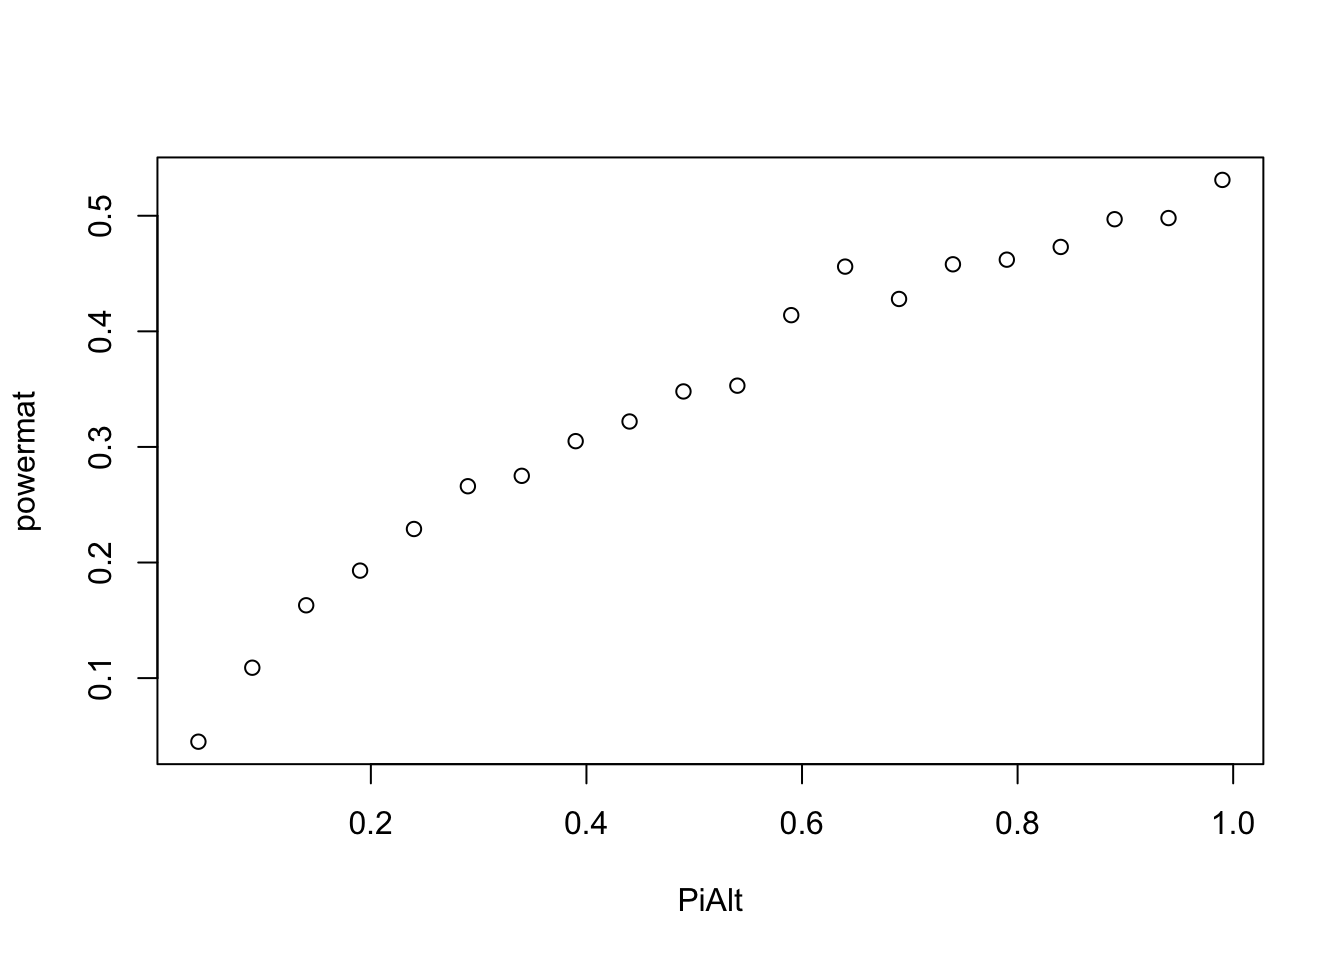
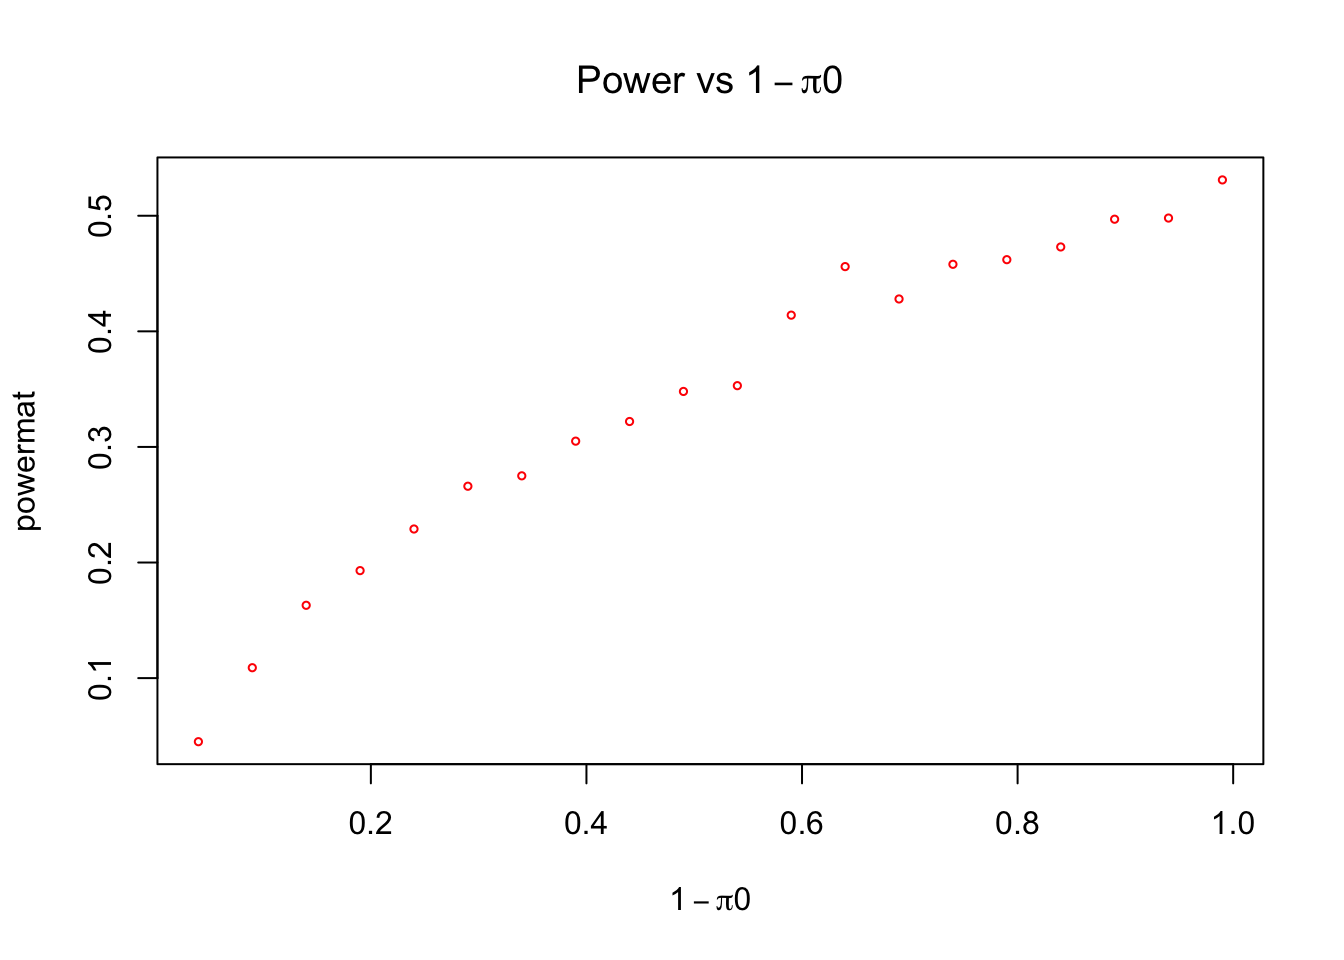
Build site.

diff --git a/docs/power.html b/docs/power.html
@@ -337,7 +337,7 @@ div.section {
 <div class="tab-content">
 <div id="summary" class="tab-pane fade in active">
 <p>
-<strong>Last updated:</strong> 2019-12-27
+<strong>Last updated:</strong> 2019-12-30
 </p>
 <p>
 <strong>Checks:</strong> <span class="glyphicon glyphicon-ok text-success" aria-hidden="true"></span> 6 <span class="glyphicon glyphicon-exclamation-sign text-danger" aria-hidden="true"></span> 1
@@ -438,14 +438,6 @@ relative
 <tbody>
 <tr>
 <td style="text-align:left;">
-~/nejm/analysis/
-</td>
-<td style="text-align:left;">
-analysis
-</td>
-</tr>
-<tr>
-<td style="text-align:left;">
 ~/nejm/code/scripts.R
 </td>
 <td style="text-align:left;">
@@ -460,10 +452,10 @@ code/scripts.R
 <div class="panel panel-default">
 <div class="panel-heading">
 <p class="panel-title">
-<a data-toggle="collapse" data-parent="#workflowr-checks" href="#strongRepositoryversionstrongahrefhttpsgithubcomsurbutnejmtree33537b02d42f1dd8723380705e29aa07cde4e48ctargetblank33537b0a"> <span class="glyphicon glyphicon-ok text-success" aria-hidden="true"></span> <strong>Repository version:</strong> <a href="https://github.com/surbut/nejm/tree/33537b02d42f1dd8723380705e29aa07cde4e48c" target="_blank">33537b0</a> </a>
+<a data-toggle="collapse" data-parent="#workflowr-checks" href="#strongRepositoryversionstrongahrefhttpsgithubcomsurbutnejmtreebe29c2eda7805ceba1e346d90d42f2de68ca3a53targetblankbe29c2ea"> <span class="glyphicon glyphicon-ok text-success" aria-hidden="true"></span> <strong>Repository version:</strong> <a href="https://github.com/surbut/nejm/tree/be29c2eda7805ceba1e346d90d42f2de68ca3a53" target="_blank">be29c2e</a> </a>
 </p>
 </div>
[2 lines of base64/hex data omitted]
 <div class="panel-body">
 <p>
 Great! You are using Git for version control. Tracking code development and connecting the code version to the results is critical for reproducibility. The version displayed above was the version of the Git repository at the time these results were generated. <br><br> Note that you need to be careful to ensure that all relevant files for the analysis have been committed to Git prior to generating the results (you can use <code>wflow_publish</code> or <code>wflow_git_commit</code>). workflowr only checks the R Markdown file, but you know if there are other scripts or data files that it depends on. Below is the status of the Git repository when the results were generated:
@@ -523,6 +515,40 @@ Message
 </tr>
 </thead>
 <tbody>
+<tr>
+<td>
+Rmd
+</td>
+<td>
+<a href="https://github.com/surbut/nejm/blob/be29c2eda7805ceba1e346d90d42f2de68ca3a53/analysis/power.Rmd" target="_blank">be29c2e</a>
+</td>
+<td>
+Sarah Urbut
+</td>
+<td>
+2019-12-30
+</td>
+<td>
+wflow_publish(“~/nejm/analysis/power.Rmd”)
+</td>
+</tr>
+<tr>
+<td>
+html
+</td>
+<td>
+<a href="https://rawcdn.githack.com/surbut/nejm/40f9bd858097f968a1bc60032dbe4ff8607e8d42/docs/power.html" target="_blank">40f9bd8</a>
+</td>
+<td>
+Sarah Urbut
+</td>
+<td>
+2019-12-27
+</td>
+<td>
+Build site.
+</td>
+</tr>
 <tr>
 <td>
 Rmd
@@ -686,9 +712,8 @@ abline(h=0)</code></pre>
 <p>In this paper, the standard error <span class="math inline">\(\hat\sigma\)</span> was 0.21. This means that the rejection region that the logOR is significantly different than 0 at an <span class="math inline">\(\alpha\)</span> of 0.05 would be +/- 1.96*0.21 = +/- 0.41.</p>
 <p>We can sample from our posterior at various levels of <span class="math inline">\(\pi\)</span> and <span class="math inline">\(\hat{sigma}\)</span> and compute how often the null is appropriately rejected.</p>
 <p>We should sample from the mixture distribution and determine how many times the <span class="math inline">\(95\%\)</span> credible interval excludes 0 for different choces of <span class="math inline">\(\sigma\)</span> and <span class="math inline">\(\pi\)</span>, assuming that the observed logOR is the true logOR. We thus seek to determine how frequently a values chosen from posterior distribution excludes CI (but is this ok, using a posterior probability for frequentist sampling?)</p>
-<p>In the following script, we simulate for a range of pis and a fixed prior sigma, and compute how many time the posterior mean and variance produce a random variable that correctly rejects alternaitve. Here we plot for a prior sigma of 0.5, as discovered in the bottom sim is the best choice of <span class="math inline">\(\sigma\)</span>.</p>
-<pre class="r"><code>#setwd(&quot;~/nejm/analysis/&quot;)
-source(&quot;~/nejm/code/scripts.R&quot;)## scripts to compute posterior mean, variance and posterior weights
+<p>In the following script, we simulate for a range of pis and a fixed prior sigma, and compute how many time the posterior mean and variance produce a random variable that correctly rejects alternaitve. Here we plot for a prior <span class="math inline">\(\sigma\)</span> of 0.5, as discovered in the bottom simulation is the best choice of <span class="math inline">\(\sigma\)</span>.</p>
+<pre class="r"><code>source(&quot;~/nejm/code/scripts.R&quot;)## scripts to compute posterior mean, variance and posterior weights
 
 ##Simulation script
 runpisim=function(dm,priorsd,dse,priormean=0,sim=1000){
@@ -715,7 +740,7 @@ pi0s=seq(0.01,1,by=0.05)##proportional weight on 0 component
 pis=1-pi0s
 simmat=runpisim(dm = dm,dse = dse,priorsd = 0.5)
 powermat=apply(simmat,2,function(x){1-mean(x&lt;0.41&amp;x&gt;-0.41)})
-plot(pis,powermat,xlab=&quot;PiAlt&quot;)</code></pre>
+plot(pis,powermat,xlab=expression(paste(1-pi,&quot;0&quot;)), main=expression(paste(&quot;Power vs &quot;, 1-pi,&quot;0&quot;)) ,pch=1,cex=0.5,col=&quot;red&quot;)</code></pre>
 <p><img src="figure/power.Rmd/unnamed-chunk-2-1.png" width="672" style="display: block; margin: auto;" /></p>
 <p>
 <button type="button" class="btn btn-default btn-xs btn-workflowr btn-workflowr-fig" data-toggle="collapse" data-target="#fig-unnamed-chunk-2-1">
@@ -739,6 +764,17 @@ Date
 </tr>
 </thead>
 <tbody>
+<tr>
+<td>
+<a href="https://github.com/surbut/nejm/blob/40f9bd858097f968a1bc60032dbe4ff8607e8d42/docs/figure/power.Rmd/unnamed-chunk-2-1.png" target="_blank">40f9bd8</a>
+</td>
+<td>
+Sarah Urbut
+</td>
+<td>
+2019-12-27
+</td>
+</tr>
 <tr>
 <td>
 <a href="https://github.com/surbut/nejm/blob/05086d86b34fb4d66c43c4d3851581d796c4c376/docs/figure/power.Rmd/unnamed-chunk-2-1.png" target="_blank">05086d8</a>
@@ -779,7 +815,7 @@ test=runSigmasim(dm = dm,dse = dse,pi0=0.5)
 powermat=apply(test,2,function(x){1-mean(x&lt;0.41&amp;x&gt;-0.41)})
 minsig=0.1;maxsig=2;inc=0.05
 sigmas=seq(minsig,maxsig,by=inc)
-plot(sigmas,powermat,xlab=expression(paste(&quot;Prior &quot;,sigma)), ylab=&quot;Power&quot;, main=expression(paste(&quot;Power vs &quot;, pi,&quot;0&quot;)) ,pch=1,cex=0.5,col=&quot;red&quot;)</code></pre>
+plot(sigmas,powermat,xlab=expression(paste(&quot;Prior &quot;,sigma)), ylab=&quot;Power&quot;, main=expression(paste(&quot;Power vs Prior &quot;, sigma)) ,pch=1,cex=0.5,col=&quot;red&quot;)</code></pre>
 <p><img src="figure/power.Rmd/unnamed-chunk-3-1.png" width="672" style="display: block; margin: auto;" /></p>
 <p>
 <button type="button" class="btn btn-default btn-xs btn-workflowr btn-workflowr-fig" data-toggle="collapse" data-target="#fig-unnamed-chunk-3-1">
@@ -803,6 +839,17 @@ Date
 </tr>
 </thead>
 <tbody>
+<tr>
+<td>
+<a href="https://github.com/surbut/nejm/blob/40f9bd858097f968a1bc60032dbe4ff8607e8d42/docs/figure/power.Rmd/unnamed-chunk-3-1.png" target="_blank">40f9bd8</a>
+</td>
+<td>
+Sarah Urbut
+</td>
+<td>
+2019-12-27
+</td>
+</tr>
 <tr>
 <td>
 <a href="https://github.com/surbut/nejm/blob/8ac49782ecf6f0050214525b222a92174a291275/docs/figure/power.Rmd/unnamed-chunk-3-1.png" target="_blank">8ac4978</a>
@@ -829,14 +876,14 @@ Sarah Urbut
 </table>
 </div>
 </div>
-<p>Here we can see that the choice of <span class="math inline">\(\sigma\)</span> matters much more than the choice of <span class="math inline">\(\pi0\)</span>, and that the power of the simulation to detect an effect if it truly exists seems to be maximal with prior <span class="math inline">\(\sigma^{2}\)</span> of ~ 0.5 and that the maximal power achieved is roughly 50%. THis stems from the fact that even under a situation with <span class="math inline">\(pi0\)</span> at 0, such a small observed logOR is equally likely to stem from the null as the alternaitve. Let’s examine for larger dm, one that is twice the first.</p>
+<p>Here we can see that the choice of <span class="math inline">\(\sigma\)</span> matters much more than the choice of <span class="math inline">\(\pi_0\)</span>, and that the power of the simulation to detect an effect if it truly exists seems to be maximal with prior <span class="math inline">\(\sigma^{2}\)</span> of ~ 0.5 and that the maximal power achieved is roughly 50%. This stems from the fact that even under a situation with <span class="math inline">\(\pi_0\)</span> at 0, such a small observed logOR is equally likely to stem from the null as the alternaitve. Let’s examine for larger dm, one that is twice the first.</p>
 <pre class="r"><code>dm=2*dm
 
 pi0s=seq(0.01,1,by=0.05)##proportional weight on 0 component
 pis=1-pi0s
 simmat=runpisim(dm = dm,dse = dse,priorsd = 0.5)
 powermat=apply(simmat,2,function(x){1-mean(x&lt;0.41&amp;x&gt;-0.41)})
-plot(pis,powermat,xlab=expression(paste(pi,&quot;Alternative&quot;)), ylab=&quot;Power&quot;, main=expression(paste(&quot;Power vs &quot;, pi,&quot;Alternative&quot;)) ,pch=1,cex=0.5,col=&quot;red&quot;)</code></pre>
+plot(pis,powermat,xlab=expression(paste(1-pi,&quot;0&quot;)), main=expression(paste(&quot;Power vs &quot;, 1-pi,&quot;0&quot;)) ,pch=1,cex=0.5,col=&quot;red&quot;)</code></pre>
 <p><img src="figure/power.Rmd/unnamed-chunk-4-1.png" width="672" style="display: block; margin: auto;" /></p>
 <p>
 <button type="button" class="btn btn-default btn-xs btn-workflowr btn-workflowr-fig" data-toggle="collapse" data-target="#fig-unnamed-chunk-4-1">
@@ -860,6 +907,17 @@ Date
 </tr>
 </thead>
 <tbody>
+<tr>
+<td>
+<a href="https://github.com/surbut/nejm/blob/40f9bd858097f968a1bc60032dbe4ff8607e8d42/docs/figure/power.Rmd/unnamed-chunk-4-1.png" target="_blank">40f9bd8</a>
+</td>
+<td>
+Sarah Urbut
+</td>
+<td>
+2019-12-27
+</td>
+</tr>
 <tr>
 <td>
 <a href="https://github.com/surbut/nejm/blob/8ac49782ecf6f0050214525b222a92174a291275/docs/figure/power.Rmd/unnamed-chunk-4-1.png" target="_blank">8ac4978</a>
@@ -916,6 +974,17 @@ Date
 <tbody>
 <tr>
 <td>
+<a href="https://github.com/surbut/nejm/blob/40f9bd858097f968a1bc60032dbe4ff8607e8d42/docs/figure/power.Rmd/unnamed-chunk-4-2.png" target="_blank">40f9bd8</a>
+</td>
+<td>
+Sarah Urbut
+</td>
+<td>
+2019-12-27
+</td>
+</tr>
+<tr>
+<td>
 <a href="https://github.com/surbut/nejm/blob/8ac49782ecf6f0050214525b222a92174a291275/docs/figure/power.Rmd/unnamed-chunk-4-2.png" target="_blank">8ac4978</a>
 </td>
 <td>
@@ -940,7 +1009,7 @@ Sarah Urbut
 </table>
 </div>
 </div>
-<p>WE can see the importance of a larger parameter value, which really only emphasizes the need for such ‘sobriety’ with larger trials. Perhpas we should focus on a trial with a larger demonstrated effect, and show the importance of ‘sobriety’ in cases in which one is eager to reject the null, because I think focusing on power to detect a very small effect when we’re trying to emphasize skepticisim detracts from our focus.</p>
+<p>We can see the importance of a larger parameter value, which really only emphasizes the need for such ‘sobriety’ with larger trials. Perhpas we should focus on a trial with a larger demonstrated effect, and show the importance of ‘sobriety’ in cases in which one is eager to reject the null, because I think focusing on power to detect a very small effect when we’re trying to emphasize skepticisim detracts from our focus.</p>
 <br>
 <p>
 <button type="button" class="btn btn-default btn-workflowr btn-workflowr-sessioninfo" data-toggle="collapse" data-target="#workflowr-sessioninfo" style="display: block;">
@@ -951,7 +1020,7 @@ Sarah Urbut
 <pre class="r"><code>sessionInfo()</code></pre>
 <pre><code>R version 3.5.2 (2018-12-20)
 Platform: x86_64-apple-darwin15.6.0 (64-bit)
-Running under: macOS  10.15.1
+Running under: macOS  10.15.2
 
 Matrix products: default
 BLAS: /Library/Frameworks/R.framework/Versions/3.5/Resources/lib/libRblas.0.dylib
